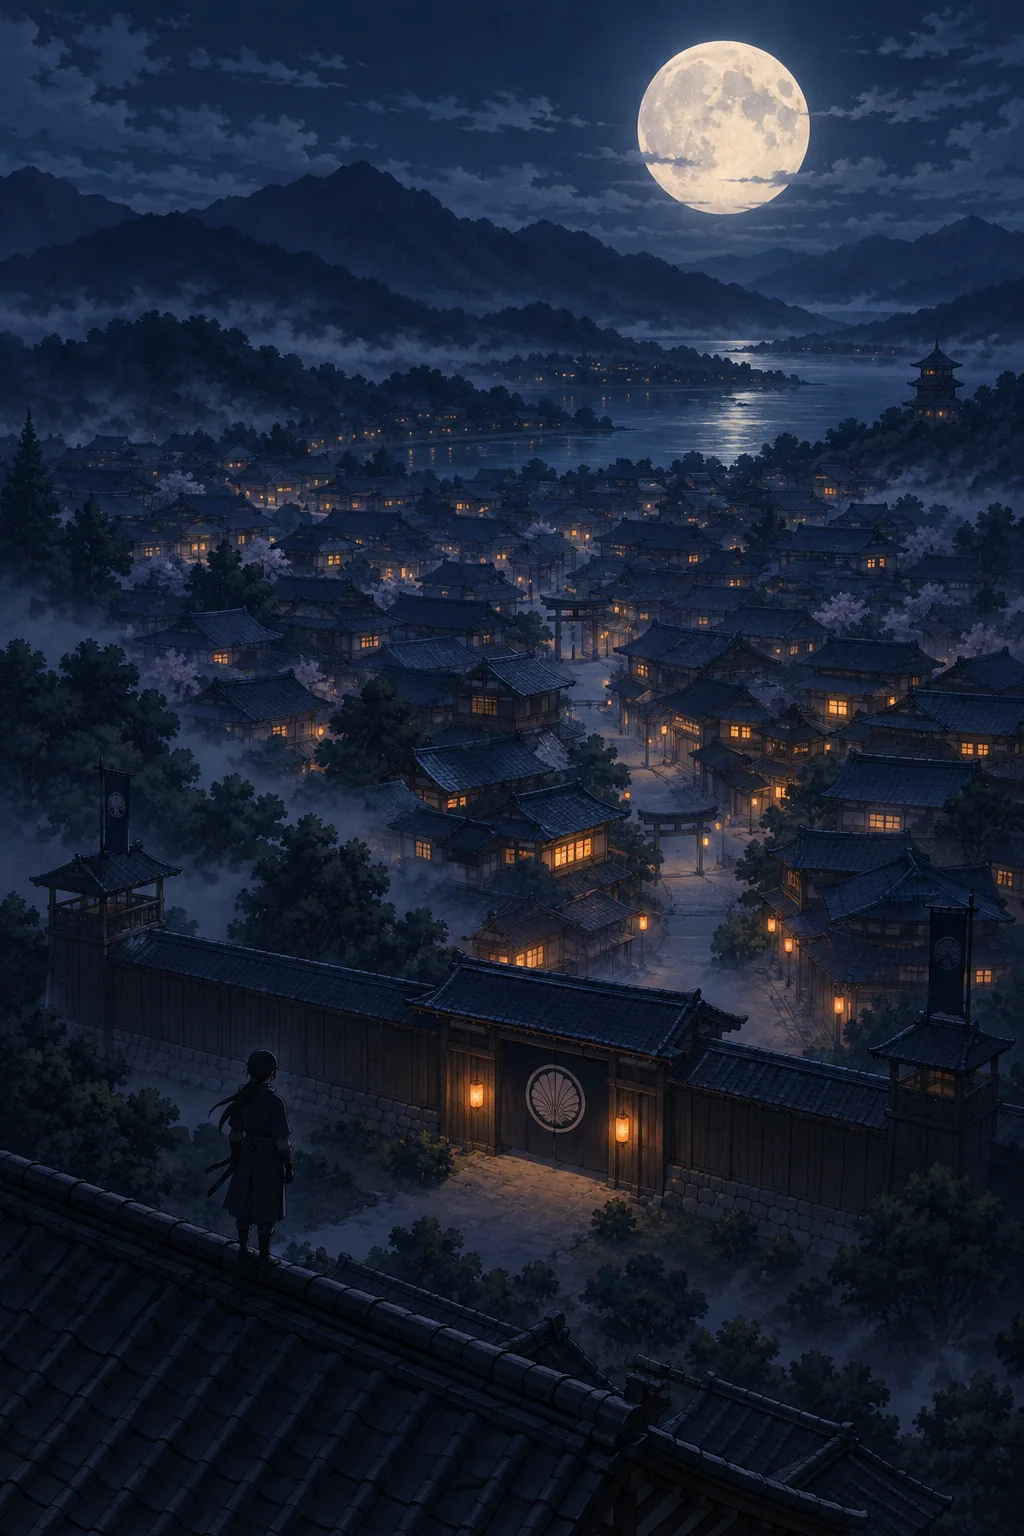
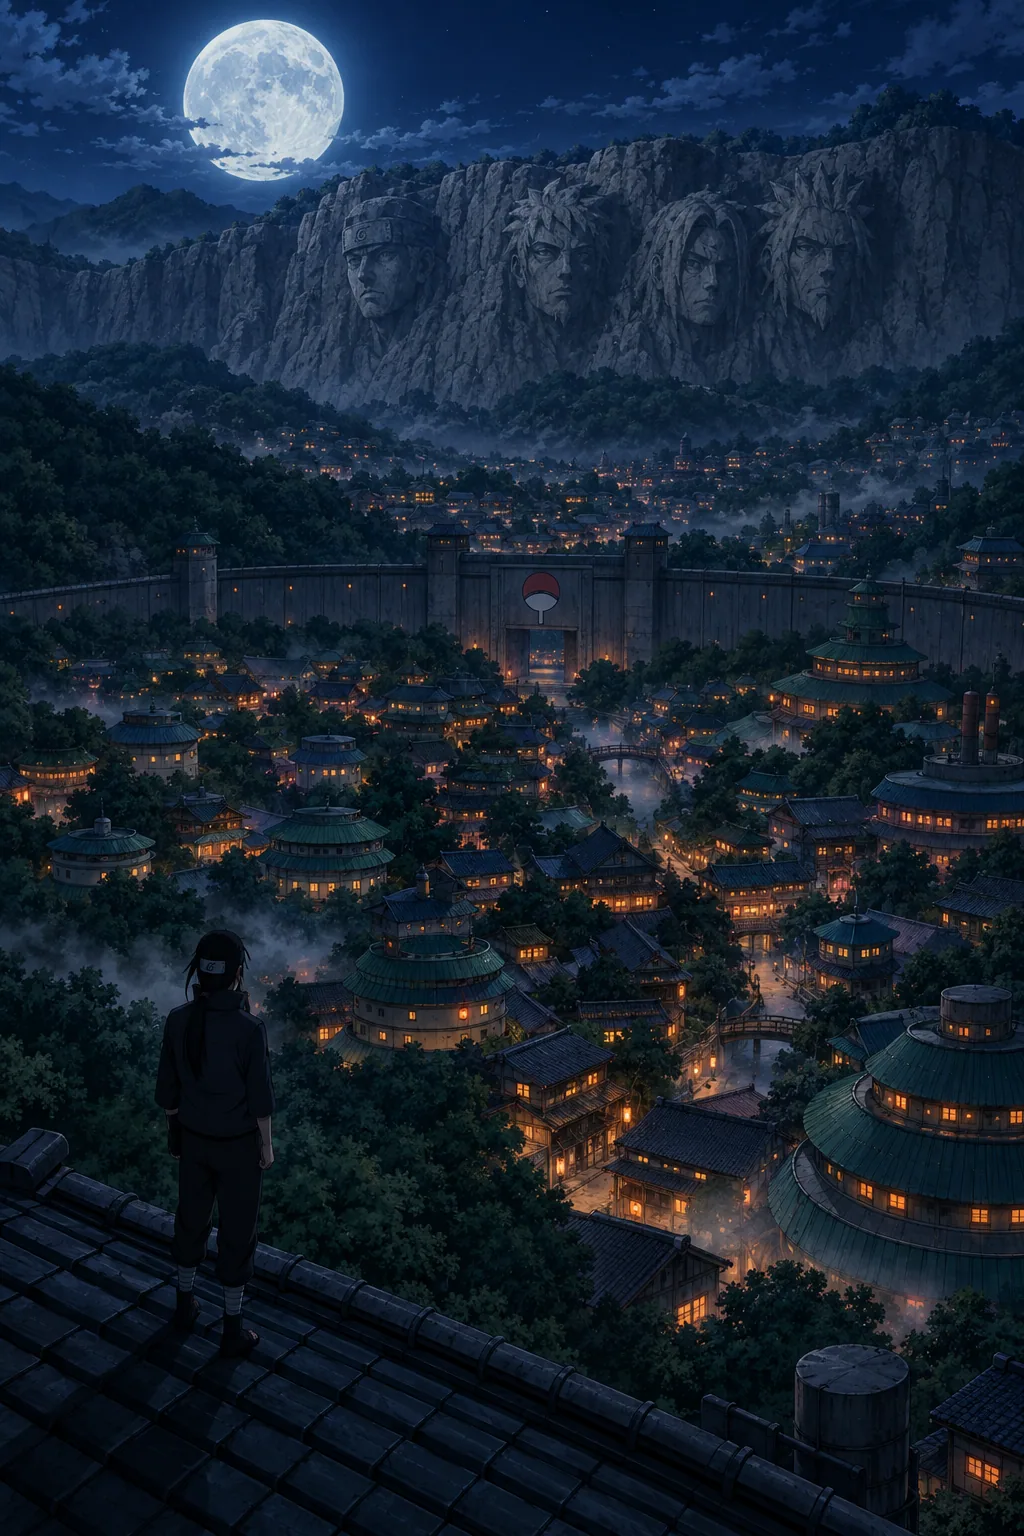
Make the prologue actually look like the Hidden Leaf
Malik's read was right and the art was the problem. The first three
frames were "slim figure in dark shinobi clothes" and "a round paper-fan
crest", which produced a handsome generic Edo village -- no Hokage rock,
no Uchiha fan, no Leaf protector, a Sasuke who was just a boy with dark
hair. For a story whose whole draw is recognition, off-model art is worse
than none.

Itachi's own coverDirection already showed the house answer: name the
things. "Mangekyo Sharingan", "Akatsuki cloak with red clouds", "Leaf
forehead protector scratched horizontally". So the prologue prompts now
name them too -- the cliff carved with four colossal stone faces, the
round drum buildings with teal roofs, the red-over-white fan on the
compound gate and on every wall and lantern, the spiral-leaf forehead
protector, Sasuke's navy high collar and the fan on his back, Itachi's
low ponytail and tear-trough lines. Sasuke is still described by costume
rather than age, which is the rule that keeps the classifier from
refusing the whole request.

Two other fixes Malik called:

"He is still holding one out for you" had no antecedent -- "one" what.
It now says what it is: a shuriken, handle first.

And nothing about a full-bleed picture said there was more underneath, so
the first frame read as a loading screen. There is a bobbing "Swipe up"
now, on panel one only.

That last one turned up a real bug behind it: the dots and the hint were
[…]

diff --git a/infra/scripts/prologue-art.ts b/infra/scripts/prologue-art.ts
@@ -72,45 +72,56 @@ const SHOTS: Record<string, readonly PrologueShot[]> = {
     {
       key: 'story_itachi/prologue/1',
       prompt: [
-        'Extreme wide establishing shot, vertical composition, seen from high above.',
-        'A traditional hidden village of tiled wooden roofs at night, warm orange lantern light in the windows,',
-        'a walled clan compound at the near edge with a round paper-fan crest on its gate.',
-        'Huge pale moon low in the sky, thin mist lying in the streets, deep indigo and slate blue palette,',
-        'warm amber window light as the single saturated accent.',
-        'On a rooftop in the foreground, very small in frame, the back of a slim figure in dark shinobi clothes',
-        'with long dark hair tied low, standing still, looking down over the village.',
-        'Lonely, quiet, enormous. The figure is tiny against the town.',
+        'Extreme wide establishing shot, vertical composition, from a rooftop high above a ninja village at night.',
+        'THE VILLAGE: a hidden ninja village in a forested valley ringed by a high outer wall.',
+        'Round drum-shaped buildings with teal-green roofs mixed with traditional tiled wooden houses,',
+        'warm orange lantern light in hundreds of windows, thin mist in the streets.',
+        'FAR BACKGROUND, unmistakable: an immense grey cliff face on the far side of the valley,',
+        'carved with four colossal stone portrait heads of past village leaders looking out over the rooftops,',
+        'lit pale by the moon. A huge pale moon low in a deep indigo sky.',
+        'MIDGROUND: a walled clan compound, its gate marked with a round red-and-white fan emblem,',
+        'the top half red and the bottom half white.',
+        'FOREGROUND, small in frame: the back of a slim young man standing alone on a tiled rooftop,',
+        'long straight black hair tied loosely low behind, dark high-collared shinobi clothes,',
+        'a metal forehead protector with a spiral-leaf emblem, looking down over the village.',
+        'He is tiny against the valley. Lonely, quiet, enormous.',
       ].join(' '),
-      alt: 'A hidden village of tiled roofs at night under a huge moon, with a small figure standing on a rooftop above it.',
+      alt: 'A hidden ninja village at night under a huge moon, a cliff carved with four giant stone faces behind it, and one small figure standing on a rooftop.',
     },
     {
       key: 'story_itachi/prologue/2',
       prompt: [
-        'Medium wide shot, vertical composition, at street level.',
-        'A narrow stone lane inside a walled clan compound at night, wooden houses close on both sides,',
-        'paper lanterns and one sliding door left open spilling warm light across the stones.',
-        'The same huge pale moon above the rooftops, same indigo and slate palette, same thin mist.',
-        'A slim figure in dark shinobi clothes with long dark hair tied low walks away from the viewer down the lane,',
-        'seen from behind, a school satchel over one shoulder with the edge of a blank porcelain animal mask',
-        'just visible where the flap has come open.',
+        'Medium wide shot, vertical composition, at street level inside a walled clan compound at night.',
+        'A narrow stone lane between traditional wooden houses, each wall carrying the same round',
+        'red-and-white fan emblem, top half red and bottom half white. Paper lanterns glowing warm orange,',
+        'one sliding paper door left open spilling light across the stones.',
+        'The same huge pale moon above the rooftops, same deep indigo and slate palette, same thin mist.',
+        'A slim young man walks away from the viewer down the lane, seen from behind:',
+        'long straight black hair tied loosely low, dark high-collared shinobi clothes,',
+        'a metal forehead protector with a spiral-leaf emblem, and a shoulder bag',
+        'from which the edge of a blank white porcelain animal mask is just visible.',
         'Tense and quiet. Nobody else in the lane. No weapon drawn.',
       ].join(' '),
-      alt: 'A narrow lantern-lit lane at night, a figure walking away with a porcelain mask showing at the top of their bag.',
+      alt: 'A lantern-lit stone lane in a clan compound at night, a young shinobi walking away with a white porcelain mask showing in his bag.',
     },
     {
       key: 'story_itachi/prologue/3',
       prompt: [
-        'Close cinematic two-shot, vertical composition, low camera near the ground.',
-        'The wooden step of a traditional house at night, warm light from the doorway behind.',
-        'In the foreground, sitting on the step, a small child in a dark academy shirt with a round paper-fan crest',
-        'on the shoulder, dark hair sticking up at the back, four practice throwing stars laid out in a neat row',
-        'in the dirt beside them. The child is holding one out toward the viewer, handle first, not looking up.',
-        'Behind and above, half in shadow, a slim older figure in dark shinobi clothes with long dark hair tied low',
-        'has stopped and turned their head toward the viewer. Moonlight catches one side of the face,',
-        'the rest falls into shadow. Tired dark eyes, faint lines beneath them. Calm, not threatening.',
-        'Same moon, same indigo and amber palette as before. Intimate and still.',
+        'Close cinematic two-shot, vertical composition, low camera near the ground, night.',
+        'The wooden step of a traditional house, warm light from the open doorway behind.',
+        'IN FRONT, sitting on the step: a young boy with black hair that sticks up spikily at the back,',
+        'wearing a navy-blue high-collared shirt with a round red-and-white fan emblem on the back,',
+        'white shorts. Four metal four-pointed throwing stars are laid out in a neat row in the dirt beside him.',
+        'He holds a fifth out toward the viewer, gripped by the blade so the handle points outward,',
+        'his eyes down, not looking up. Patient and a little sullen.',
+        'BEHIND AND ABOVE, half in shadow, an older teenage boy has stopped and turned his head back:',
+        'long straight black hair tied loosely low, a narrow pale face, pronounced tear-trough lines',
+        'beneath calm dark eyes, dark high-collared shinobi clothes, a metal forehead protector with a',
+        'spiral-leaf emblem. His expression is gentle and tired, not threatening.',
+        'Moonlight catches one side of his face, the rest falls into shadow.',
+        'Same moon, same indigo and warm amber palette as the previous shots. Intimate, still, affectionate.',
       ].join(' '),
-      alt: 'A child on a doorstep holding out a throwing star handle-first, while an older figure pauses and looks back.',
+      alt: 'A spiky-haired boy on a doorstep holding a throwing star out handle-first, while his older brother pauses on the step above and looks back at him.',
     },
   ],
 };

diff --git a/apps/ios/Plotbreak/Screens/Session/PrologueView.swift b/apps/ios/Plotbreak/Screens/Session/PrologueView.swift
@@ -32,12 +32,19 @@ struct PrologueView: View {
     @Environment(\.translator) private var t
     @Environment(\.accessibilityReduceMotion) private var reduceMotion
 
-    /// Which panel is filling the screen, for the dots and for telemetry.
-    @State private var current = 0
+    /// Which panel is actually filling the screen.
+    ///
+    /// Driven by `scrollPosition`, not by `onAppear`. A `LazyVStack` builds the
+    /// next row before it is visible, so an `onAppear` hook reports panel 1 the
+    /// instant panel 0 is on screen — which advanced the dots on their own and
+    /// hid the scroll hint before anybody had scrolled.
+    @State private var visibleIndex: Int?
+    private var current: Int { visibleIndex ?? 0 }
     /// Panels already reported, so scrolling back and forth does not inflate
     /// the per-panel counts.
     @State private var reported: Set<Int> = []
     @State private var appeared = false
+    @State private var hintBob = false
 
     var body: some View {
         GeometryReader { geo in
@@ -49,7 +56,7 @@ struct PrologueView: View {
                         ForEach(Array(panels.enumerated()), id: \.offset) { index, panel in
                             panelView(panel, index: index, size: geo.size)
                                 .frame(width: geo.size.width, height: geo.size.height)
-                                .onAppear { reach(index) }
+                                .id(index)
                         }
 
                         // The handoff. A last short screen so the cinematic ends
@@ -57,7 +64,7 @@ struct PrologueView: View {
                         // the composer mid-scroll.
                         endCard
                             .frame(width: geo.size.width, height: geo.size.height)
-                            .onAppear { reach(panels.count) }
+                            .id(panels.count)
                     }
                     // Per-item snapping. Without this the paging behaviour
                     // measures the container rather than the panels and every
@@ -66,17 +73,29 @@ struct PrologueView: View {
                     .scrollTargetLayout()
                 }
                 .scrollTargetBehavior(.paging)
+                .scrollPosition(id: $visibleIndex)
 
                 header
+
+                // Nothing about a full-bleed picture says "there are two more
+                // of these underneath". Without this the first frame reads as
+                // a loading screen and the player waits.
+                if current == 0 {
+                    scrollHint
+                }
             }
         }
         // On the reader, so `geo.size` is the whole screen. Measured inside the
         // safe area instead, every panel is shorter than the page it is snapped
         // to and the next one peeks out from under the caption.
         .ignoresSafeArea()
+        .onChange(of: visibleIndex) { _, index in
+            if let index { reach(index) }
+        }
         .onAppear {
             guard !appeared else { return }
             appeared = true
+            reach(0)
             Telemetry.track(.prologueShown, [
                 "storyTitle": storyTitle,
                 "panelCount": panels.count,
@@ -85,6 +104,30 @@ struct PrologueView: View {
     }
 
     // MARK: Pieces
+
+    private var scrollHint: some View {
+        VStack(spacing: 6) {
+            Txt(t("prologue.scroll_hint"), .caption, color: .white.opacity(0.9))
+            Image(systemName: "chevron.down")
+                .font(.system(size: 15, weight: .semibold))
+                .foregroundStyle(.white.opacity(0.9))
+                .offset(y: hintBob ? 4 : -2)
+        }
+        .padding(.horizontal, Theme.Spacing.md)
+        .padding(.vertical, Theme.Spacing.sm)
+        .background(.black.opacity(0.4), in: Capsule())
+        .frame(maxHeight: .infinity, alignment: .bottom)
+        .padding(.bottom, 44)
+        .allowsHitTesting(false)
+        .transition(.opacity)
+        .onAppear {
+            guard !reduceMotion else { return }
+            withAnimation(.easeInOut(duration: 0.9).repeatForever(autoreverses: true)) {
+                hintBob = true
+            }
+        }
+        .accessibilityHidden(true)
+    }
 
     private var header: some View {
         HStack(spacing: Theme.Spacing.sm) {
@@ -170,7 +213,6 @@ struct PrologueView: View {
 
     /// One event per panel actually seen, once each.
     private func reach(_ index: Int) {
-        current = min(index, max(0, panels.count - 1))
         guard index < panels.count, !reported.contains(index) else { return }
         reported.insert(index)
         Telemetry.track(.prologuePanelViewed, [

diff --git a/packages/test-fixtures/src/itachi.ts b/packages/test-fixtures/src/itachi.ts
@@ -2721,19 +2721,19 @@ const raw = {
       assetKey: 'story_itachi/prologue/1',
       headline: 'The village is asleep.',
       subline: 'You have been awake for hours.',
-      alt: 'A hidden village of tiled roofs at night under a huge moon, with a small figure standing on a rooftop above it.',
+      alt: 'The Hidden Leaf at night under a huge moon, the Hokage faces carved into the cliff behind it, and Itachi small on a rooftop above the Uchiha compound.',
     },
     {
       assetKey: 'story_itachi/prologue/2',
       headline: 'Two people are waiting on you tonight.',
       subline: 'Neither of them knows about the other.',
-      alt: 'A narrow lantern-lit lane at night, a figure walking away with a porcelain mask showing at the top of their bag.',
+      alt: 'A lantern-lit lane in the Uchiha compound at night, Itachi walking away with an ANBU mask showing in his bag.',
     },
     {
       assetKey: 'story_itachi/prologue/3',
       headline: 'Sasuke has been on the step for two hours.',
-      subline: 'He is still holding one out for you.',
-      alt: 'A child on a doorstep holding out a throwing star handle-first, while an older figure pauses and looks back.',
+      subline: 'He is holding a shuriken out to you, handle first.',
+      alt: 'Sasuke sits on the doorstep holding a shuriken out handle-first, while Itachi pauses on the step behind him and looks back.',
     },
   ],
   opening:

diff --git a/packages/i18n/src/catalog/en/session.ts b/packages/i18n/src/catalog/en/session.ts
@@ -327,6 +327,8 @@ export const session = {
   'session.latest_image_a11y': 'Open latest image',
   // --- The opening cinematic (three frames before the first beat) ---
   /** Always visible, from the first frame. Nobody is held in a title sequence. */
+  /** On the first frame only: a full-bleed picture does not say there is more below it. */
+  'prologue.scroll_hint': 'Swipe up',
   'prologue.skip': 'Skip',
   'prologue.skip_a11y': 'Skip the opening and start playing',
   /** The handoff screen: the cinematic ends on a deliberate tap. */

diff --git a/packages/i18n/src/catalog/fr/session.ts b/packages/i18n/src/catalog/fr/session.ts
@@ -281,6 +281,7 @@ export const session = {
   'session.suggestions_title': 'Suggestions',
   'session.scroll_to_latest': 'Aller au dernier tour',
   'session.latest_image_a11y': 'Ouvrir la dernière image',
+  'prologue.scroll_hint': 'Fais glisser vers le haut',
   'prologue.skip': 'Passer',
   'prologue.skip_a11y': 'Passer l’introduction et commencer à jouer',
   'prologue.ready': 'À toi.',
